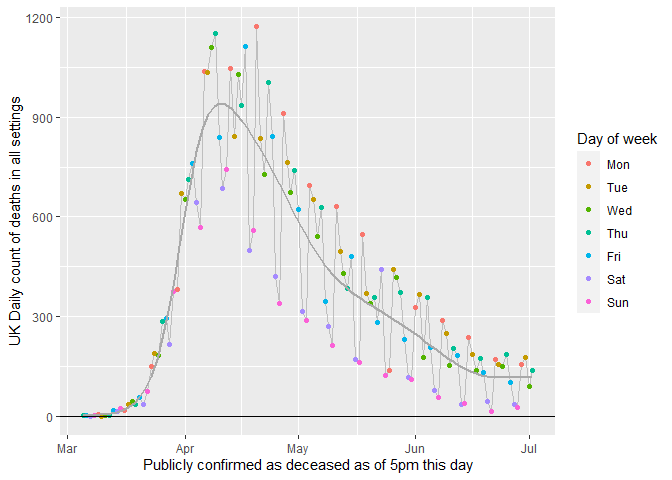
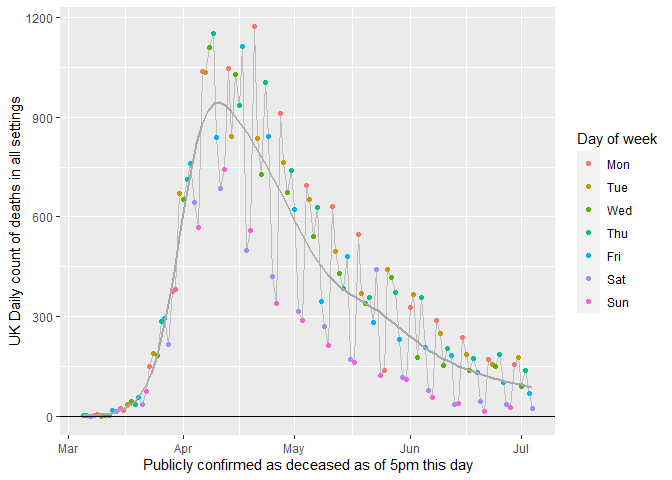
Re-ran analyses

diff --git a/README.md b/README.md
@@ -2,7 +2,7 @@ Using ggplot2 to visualise Covid-19 deaths the UK
 ================
 Andi (<almost@gmail.com>,
 @[inductivestep](https://twitter.com/InductiveStep))
-04 July 2020
+06 July 2020
 
 This script shows how to use ggplot2, with the help of some other
 tidyverse tools, to plot UK Covid-19 deaths data.
@@ -117,62 +117,6 @@ UK Daily count of deaths in all settings
 </thead>
 
 <tbody>
-
-<tr>
-
-<td style="text-align:left;">
-
-2020-06-26
-
-</td>
-
-<td style="text-align:left;">
-
-Fri
-
-</td>
-
-<td style="text-align:left;">
-
-2020-06-22
-
-</td>
-
-<td style="text-align:right;">
-
-100
-
-</td>
-
-</tr>
-
-<tr>
-
-<td style="text-align:left;">
-
-2020-06-27
-
-</td>
-
-<td style="text-align:left;">
-
-Sat
-
-</td>
-
-<td style="text-align:left;">
-
-2020-06-22
-
-</td>
-
-<td style="text-align:right;">
-
-36
-
-</td>
-
-</tr>
 
 <tr>
 
@@ -314,6 +258,62 @@ Thu
 
 </tr>
 
+<tr>
+
+<td style="text-align:left;">
+
+2020-07-03
+
+</td>
+
+<td style="text-align:left;">
+
+Fri
+
+</td>
+
+<td style="text-align:left;">
+
+2020-06-29
+
+</td>
+
+<td style="text-align:right;">
+
+67
+
+</td>
+
+</tr>
+
+<tr>
+
+<td style="text-align:left;">
+
+2020-07-04
+
+</td>
+
+<td style="text-align:left;">
+
+Sat
+
+</td>
+
+<td style="text-align:left;">
+
+2020-06-29
+
+</td>
+
+<td style="text-align:right;">
+
+22
+
+</td>
+
+</tr>
+
 </tbody>
 
 </table>
@@ -432,13 +432,13 @@ Days
 
 <td style="text-align:right;">
 
-557
+646
 
 </td>
 
 <td style="text-align:right;">
 
-4
+6
 
 </td>
 
